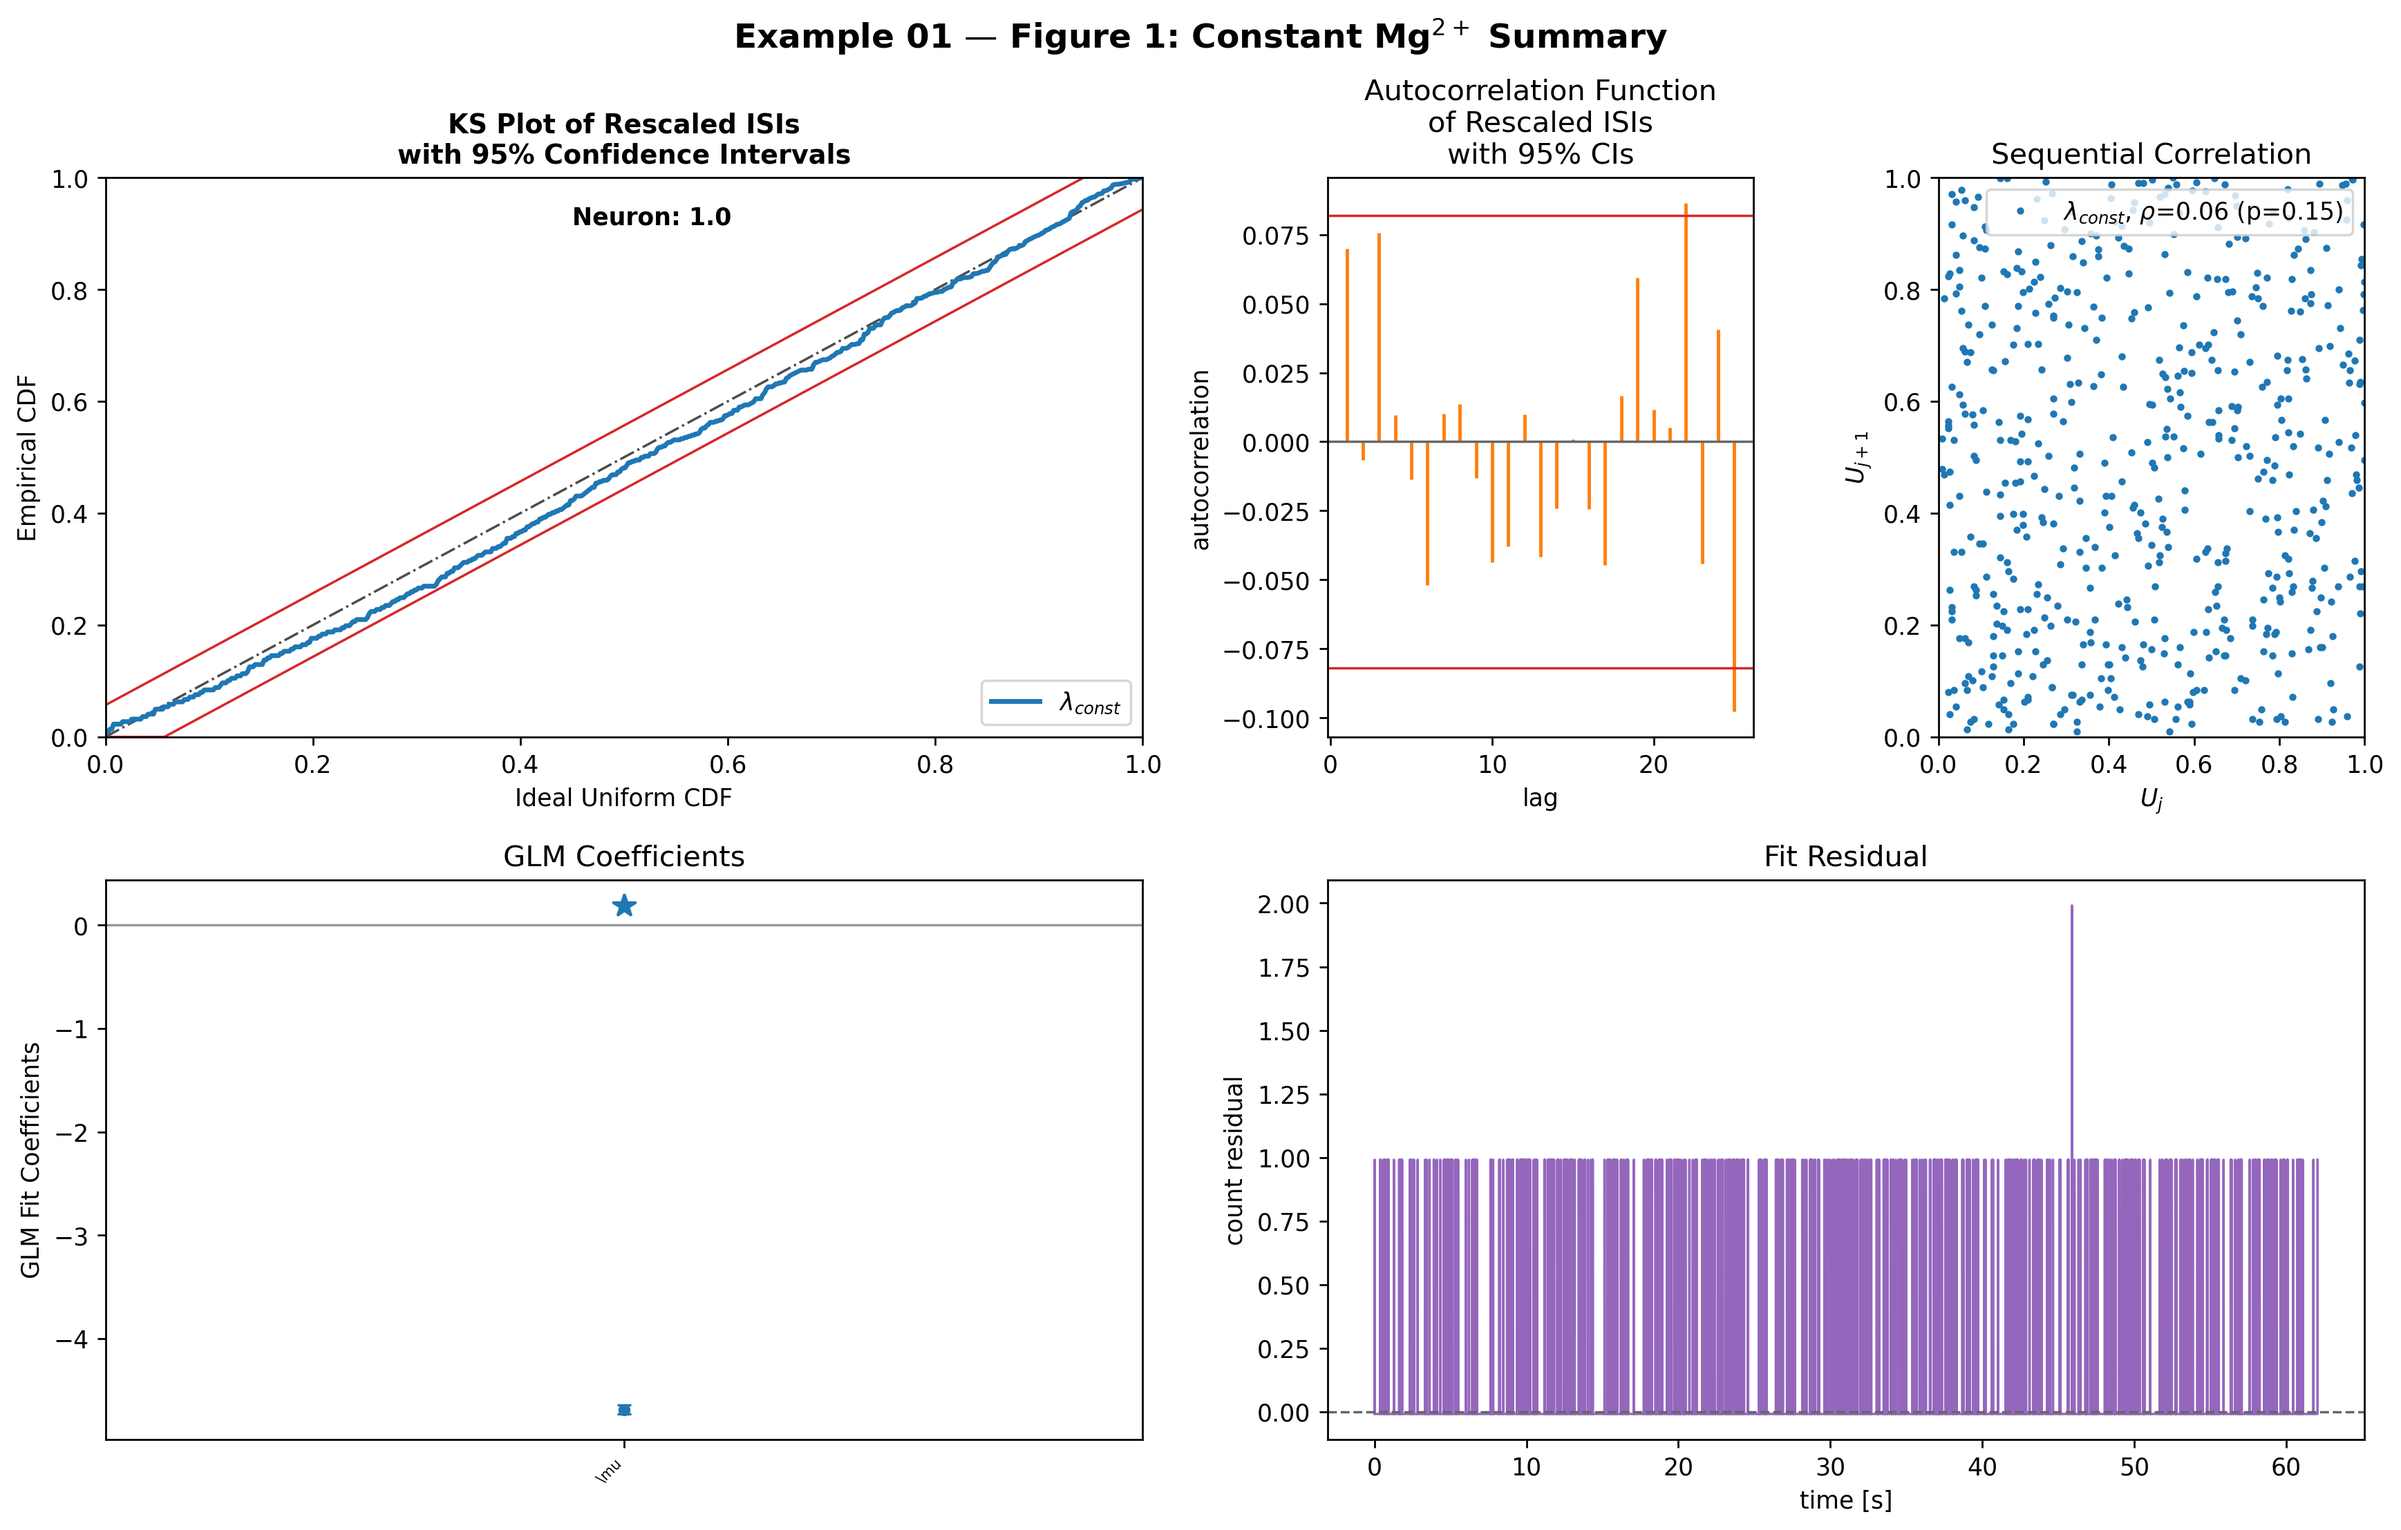
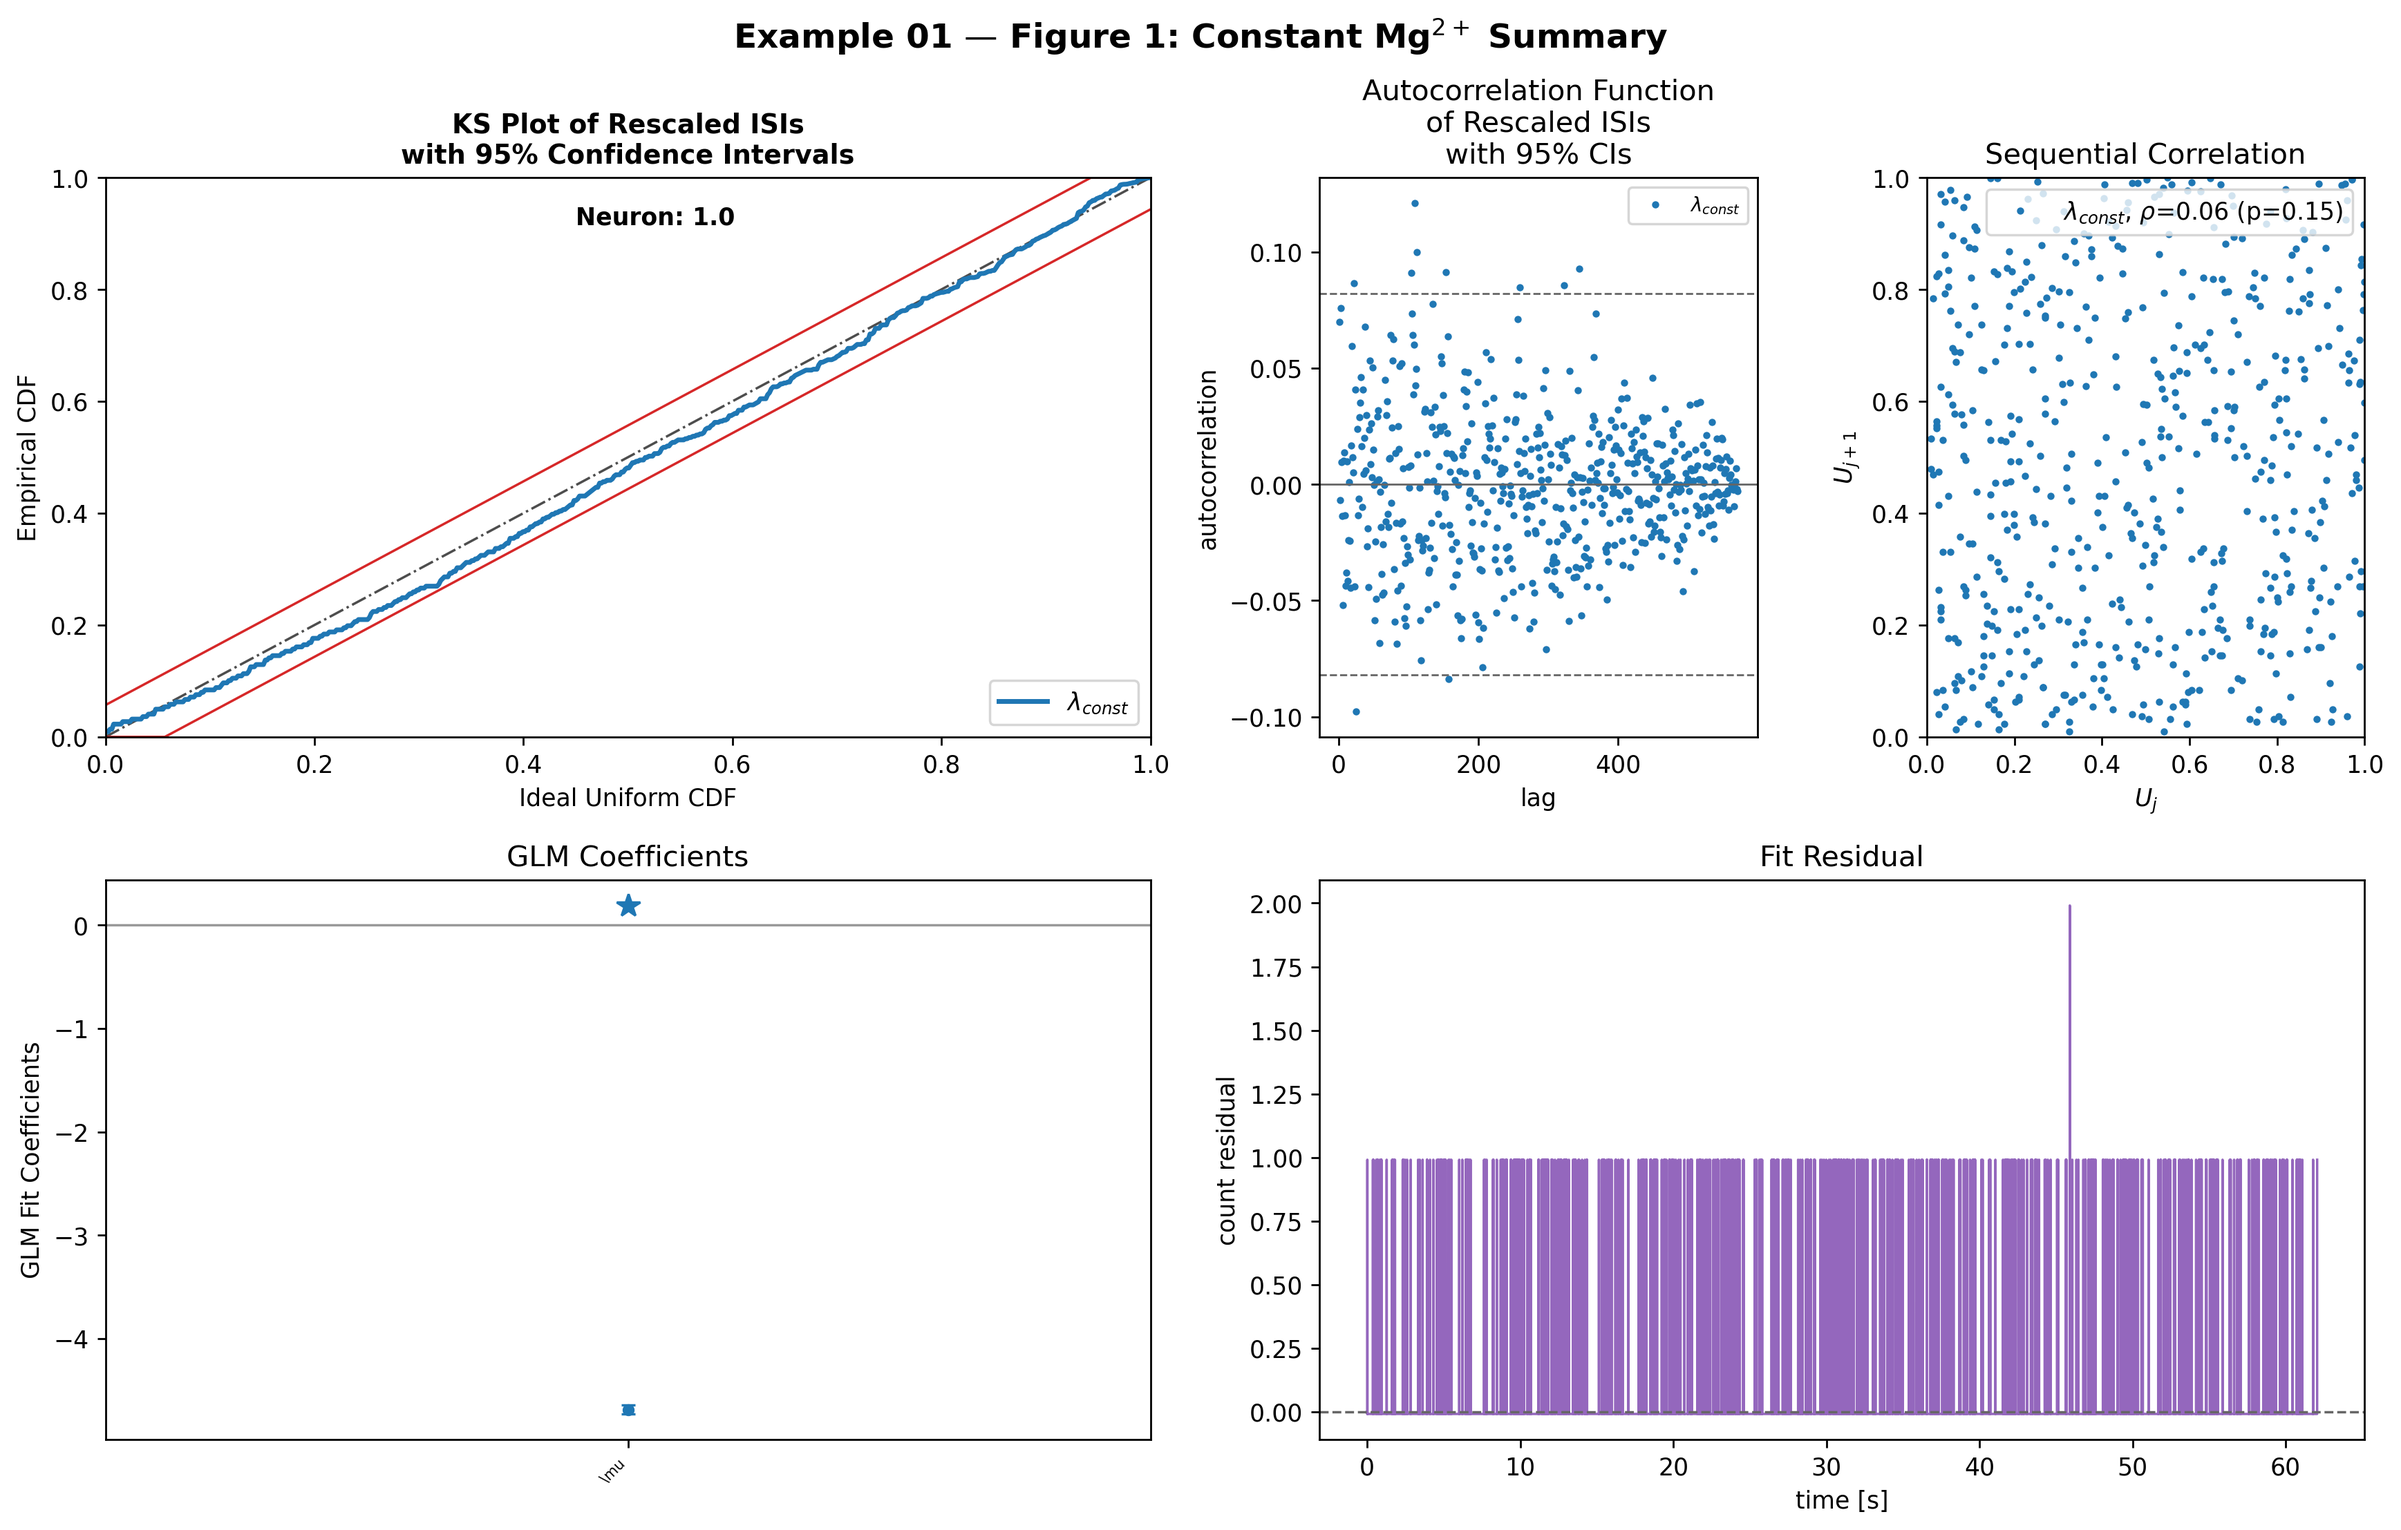
Rewrite plotInvGausTrans for multi-fit ACF with colored scatter matching MATLAB
- Accept fit_num=None to overlay all fits (like plotSeqCorr/KSPlot)
- Plot ACF as scatter dots with per-fit colors instead of single-color bars
- Remove max_lag=25 truncation to show full ACF range matching MATLAB xcov
- Add legend with fit labels; CI lines drawn without legend entries
- Update plotResults to call plotInvGausTrans(fit_num=None)

diff --git a/nstat/fit.py b/nstat/fit.py
@@ -56,7 +56,12 @@ def _pad_rows(rows: Sequence[np.ndarray], fill_value: float = np.nan) -> np.ndar
     return out
 
 
-def _autocorrelation(values: np.ndarray, max_lag: int = 25) -> tuple[np.ndarray, np.ndarray]:
+def _autocorrelation(values: np.ndarray, max_lag: int | None = None) -> tuple[np.ndarray, np.ndarray]:
+    """Compute normalized autocorrelation (xcov/xcov[0]) for lags 1..max_lag.
+
+    Matches MATLAB ``xcov`` normalization: ``rho(k) = xcov(k) / xcov(0)``.
+    When *max_lag* is None (default) the full range is returned, matching MATLAB.
+    """
     centered = np.asarray(values, dtype=float).reshape(-1) - float(np.mean(values))
     if centered.size < 2 or float(np.var(centered)) <= 0.0:
         return np.asarray([], dtype=float), np.asarray([], dtype=float)
@@ -64,8 +69,8 @@ def _autocorrelation(values: np.ndarray, max_lag: int = 25) -> tuple[np.ndarray,
     corr = corr[corr.size // 2 :]
     corr = corr / corr[0]
     lags = np.arange(corr.shape[0], dtype=float)
-    max_lag = int(min(max_lag, corr.shape[0] - 1))
-    return lags[1 : max_lag + 1], corr[1 : max_lag + 1]
+    end = corr.shape[0] - 1 if max_lag is None else int(min(max_lag, corr.shape[0] - 1))
+    return lags[1 : end + 1], corr[1 : end + 1]
 
 
 def _time_rescaled_uniforms(y: np.ndarray, lam_per_bin: np.ndarray) -> np.ndarray:
@@ -941,7 +946,7 @@ class FitResult:
             ks_pvalue = np.nan
             within = np.nan
         gaussianized = norm.ppf(np.clip(uniforms, 1e-6, 1.0 - 1e-6))
-        lags, acf = _autocorrelation(gaussianized, max_lag=25)
+        lags, acf = _autocorrelation(gaussianized)
         acf_ci = 1.96 / np.sqrt(float(gaussianized.size)) if gaussianized.size else np.nan
         coeffs = self._rawCoeffs(fit_num)
         se = _extract_standard_errors(self.stats[fit_num - 1] if fit_num - 1 < len(self.stats) else None, coeffs.size)
@@ -1167,7 +1172,7 @@ class FitResult:
             transform=ax_ks.transAxes, fontweight="bold", fontsize=10,
             verticalalignment="top",
         )
-        self.plotInvGausTrans(fit_num=fit_num, handle=ax_ig)
+        self.plotInvGausTrans(fit_num=None, handle=ax_ig)
         self.plotSeqCorr(fit_num=None, handle=ax_sc)
         self.plotCoeffs(fit_num=fit_num, handle=ax_co)
         self.plotResidual(fit_num=fit_num, handle=ax_re)
@@ -1244,21 +1249,54 @@ class FitResult:
         ax.set_title("Fit Residual")
         return ax
 
-    def plotInvGausTrans(self, fit_num: int = 1, handle=None):
+    def plotInvGausTrans(self, fit_num: int | list[int] | None = None, handle=None):
         """Plot ACF of gaussianized rescaled ISIs with 95% CIs.
 
         Matlab: plotInvGausTrans computes X_j = Φ⁻¹(U_j) and plots the
         autocorrelation function of X_j with 95% confidence bounds.
+        Supports multi-fit overlay with per-fit colours matching KS/SeqCorr.
         """
-        diag = self._compute_diagnostics(fit_num)
+        if fit_num is None:
+            fit_nums = list(range(1, self.numResults + 1))
+        elif isinstance(fit_num, int):
+            fit_nums = [fit_num]
+        else:
+            fit_nums = list(fit_num)
+
         ax = handle if handle is not None else plt.subplots(1, 1, figsize=(6.0, 3.5))[1]
-        lags = np.asarray(diag["acf_lags"], dtype=float)
-        acf = np.asarray(diag["acf_values"], dtype=float)
-        if lags.size:
-            ax.vlines(lags, 0.0, acf, color="tab:orange", linewidth=1.4)
-            ax.axhline(float(diag["acf_ci"]), color="tab:red", linewidth=1.0)
-            ax.axhline(-float(diag["acf_ci"]), color="tab:red", linewidth=1.0)
-        ax.axhline(0.0, color="0.4", linewidth=1.0)
+        data_labels = (
+            list(self.lambda_signal.dataLabels)
+            if getattr(self.lambda_signal, "dataLabels", None)
+            else []
+        )
+        _SEQ_COLORS = ["tab:blue", "tab:green", "tab:red", "tab:cyan", "tab:purple", "tab:olive", "k"]
+        legend_handles: list[object] = []
+        legend_labels: list[str] = []
+        ci_val = None
+
+        for i, fn in enumerate(fit_nums):
+            diag = self._compute_diagnostics(fn)
+            lags = np.asarray(diag["acf_lags"], dtype=float)
+            acf = np.asarray(diag["acf_values"], dtype=float)
+            color = _SEQ_COLORS[i % len(_SEQ_COLORS)]
+            base_label = _ensure_mathtext(
+                data_labels[fn - 1] if fn - 1 < len(data_labels) else f"Model {fn}"
+            )
+            if lags.size:
+                h, = ax.plot(lags, acf, ".", color=color, markersize=4.0)
+                legend_handles.append(h)
+                legend_labels.append(base_label)
+                if ci_val is None:
+                    ci_val = float(diag["acf_ci"])
+
+        # Plot 95% CI lines without legend entries
+        if ci_val is not None:
+            ax.axhline(ci_val, color="0.4", linewidth=0.8, linestyle="--")
+            ax.axhline(-ci_val, color="0.4", linewidth=0.8, linestyle="--")
+        ax.axhline(0.0, color="0.4", linewidth=0.8)
+
+        if legend_handles:
+            ax.legend(legend_handles, legend_labels, loc="upper right", fontsize=8)
         ax.set_xlabel("lag")
         ax.set_ylabel("autocorrelation")
         ax.set_title("Autocorrelation Function\nof Rescaled ISIs\nwith 95% CIs")
